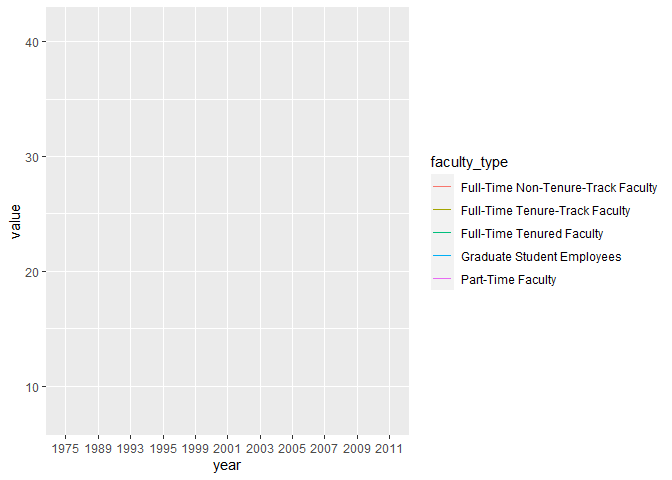
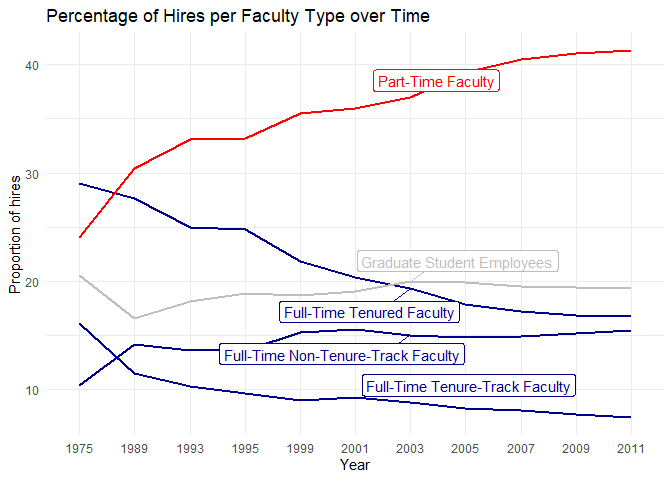
Add code for exercise 3 - lab 6

diff --git a/lab-06.md b/lab-06.md
@@ -8,10 +8,17 @@ Linn Zapffe
 ``` r
 library(tidyverse) 
 library(dsbox)
-library(mosaicData) 
+library(mosaicData)
 ```
 
     ## Warning: package 'mosaicData' was built under R version 4.3.3
+
+``` r
+# To highlight certain lines in a graph
+library(ggrepel)
+```
+
+    ## Warning: package 'ggrepel' was built under R version 4.3.3
 
 ## Instructional staff employment trends
 
@@ -57,22 +64,186 @@ Line graph of the data set:
 
 ``` r
 staff_long %>%
-  ggplot(aes(x = year, y = value, color = faculty_type)) +
+  ggplot(aes(
+    x = year,
+    y = value,
+    group = faculty_type,
+    color = faculty_type
+  )) +
   geom_line()
 ```
 
-    ## `geom_line()`: Each group consists of only one observation.
-    ## ℹ Do you need to adjust the group aesthetic?
-
-![](lab-06_files/figure-gfm/staff_line_graph-1.png)<!-- -->
+![](lab-06_files/figure-gfm/standard_line_plot-1.png)<!-- -->
 
 ### Exercise 2
 
-Remove this text, and add your answer for Exercise 1 here. Add code
-chunks as needed. Don’t forget to label your code chunk. Do not use
-spaces in code chunk labels.
+Improving the above plot:
+
+I tried first doing this without additional libraries. After getting
+labels that overlapped, I gave up and used the library ggrepel. That
+seems easier than to start adjusting labels individually.
+
+``` r
+staff_long %>%
+  mutate(
+    color_crit = case_when(
+      faculty_type == "Part-Time Faculty" ~ "red",
+      faculty_type %in% c("Full-Time Tenured Faculty", "Full-Time Tenure-Track Faculty", "Full-Time Non-Tenure-Track Faculty") ~ "darkblue",
+      faculty_type == "Graduate Student Employees" ~ "grey"
+    )
+  ) %>%
+  ggplot(aes(
+    x = year,
+    y = value,
+    group = faculty_type,
+    color = color_crit
+  )) +
+  geom_line(linewidth = 1) +
+  scale_color_identity() +
+  theme_minimal() +
+  labs(
+    title = "Percentage of Hires per Faculty Type over Time",
+    x = "Year",
+    y = "Proportion of hires",
+    color = "Faculty type"
+  ) +
+  geom_label_repel(aes(label = if_else(year == 2003, faculty_type, "")))
+```
+
+![](lab-06_files/figure-gfm/staff_line_graph-1.png)<!-- -->
+
+I am trying to highlight that there are more part-time faculty, and
+fewer full-time faculty. Therefore, I chose to color the part-time
+faculty as being red, to draw the viewer’s attention there. I colored
+all the full-time positions as blue, because the distinction doesn’t
+matter that much in this case and left graduate student employees grey
+as that is not as important. I could also have collapsed the data for
+all full-time faculty and removed that for part-time faculty.
 
 ### Exercise 3
+
+Here are some thoughts about how to improve the Fisheries plot:
+
+- Not using 3D for the plots, because it is distracting and harder to
+  interpret (area vs surface)
+- Not use pie charts, but instead bar charts, because we are better at
+  interpreting surface than area
+- Maybe change the scale of the y-axis of the filled-line plot, since I
+  can’t see anything for most of the countries, since China is an
+  extreme outlier. Alternatively, zoom in on the data with smaller
+  values in China isn’t that important.
+- Remove the background color for the pie charts, makes it harder to see
+  contrast
+- Add a legend to the filled-line graph. I don’t know what the two
+  colors mean
+- Add titles to the graphs
+- Add a caption with the source of the data
+- Remove shading from the pie chart, as that is only distracting
+- Maybe add some texture in addition to the colors to make it more
+  accessible and easier to read in grey scale printing. Alternatively,
+  make colors that contrast more or add labels where the data is instead
+  of having a legend.
+- It is a little hard to know exactly what the graphs show, since it
+  isn’t explained well. However, it seems like the filled-line graph and
+  pie chart is showing the same information, which seems unnecessary. I
+  might make both, but I would think only one of them would be needed.
+- I would also test out flipping the axes for the filled-line graph,
+  since it is a little hard to read the country names when they are
+  tilted.
+- Not have more colored area that countries. The pie charts have 6
+  countries, but maybe 30 different sections. Are the country data
+  divided into several categories? In that case, it should be collapsed
+  into just one data point per country.
+
+``` r
+fisheries <- read_csv("data/fisheries.csv")
+```
+
+    ## Rows: 216 Columns: 4
+    ## ── Column specification ────────────────────────────────────────────────────────
+    ## Delimiter: ","
+    ## chr (1): country
+    ## dbl (3): capture, aquaculture, total
+    ## 
+    ## ℹ Use `spec()` to retrieve the full column specification for this data.
+    ## ℹ Specify the column types or set `show_col_types = FALSE` to quiet this message.
+
+Looking at the data, there are way to many countries to graph.
+Therefore, I will try seeing what the top countries are based on total
+fishery production:
+
+``` r
+fisheries %>%
+  arrange(desc(total))
+```
+
+    ## # A tibble: 216 × 4
+    ##    country        capture aquaculture    total
+    ##    <chr>            <dbl>       <dbl>    <dbl>
+    ##  1 China         17800000    63700000 81500000
+    ##  2 Indonesia      6584419    16600000 23184419
+    ##  3 India          5082332     5703002 10785334
+    ##  4 Vietnam        2785940     3634531  6420471
+    ##  5 United States  4931017      444369  5375386
+    ##  6 Russia         4773413      173840  4947253
+    ##  7 Japan          3275263     1067994  4343257
+    ##  8 Philippines    2027992     2200914  4228906
+    ##  9 Peru           3811802      100187  3911989
+    ## 10 Bangladesh     1674770     2203554  3878324
+    ## # ℹ 206 more rows
+
+I think top 10 countries might be good. There might be political reasons
+to include other specific countries, but I don’t have any of those, so I
+will stick with top 10.
+
+``` r
+fisheries_top_10 <- fisheries %>%
+  slice_max(order_by = total, n = 10)
+fisheries_top_10
+```
+
+    ## # A tibble: 10 × 4
+    ##    country        capture aquaculture    total
+    ##    <chr>            <dbl>       <dbl>    <dbl>
+    ##  1 China         17800000    63700000 81500000
+    ##  2 Indonesia      6584419    16600000 23184419
+    ##  3 India          5082332     5703002 10785334
+    ##  4 Vietnam        2785940     3634531  6420471
+    ##  5 United States  4931017      444369  5375386
+    ##  6 Russia         4773413      173840  4947253
+    ##  7 Japan          3275263     1067994  4343257
+    ##  8 Philippines    2027992     2200914  4228906
+    ##  9 Peru           3811802      100187  3911989
+    ## 10 Bangladesh     1674770     2203554  3878324
+
+Making a bar graph:
+
+``` r
+fisheries_top_10 %>%
+  mutate(total = total / 100000) %>%
+  ggplot(aes(x = reorder(country, -total), y = total, fill = country)) +
+  geom_bar(stat = "identity") +
+  coord_flip() +
+  labs(
+    total = "Total Fish Harvest by Top 10 Countries",
+    x = "Countries",
+    y = "Total Harvest (in 100 000s)"
+  ) +
+  guides(fill = "none") +
+  theme_minimal()
+```
+
+![](lab-06_files/figure-gfm/plot_fish_bar_graph-1.png)<!-- -->
+
+It could also be interesting to see the distribution of fish captures
+and harvested for each country in the bar graph. I will make that
+version of the plot too.
+
+``` r
+# You need to make it long from wide by using pivot before trying to make the stacked bar graph.
+```
+
+### Exercise 4
 
 …
 
